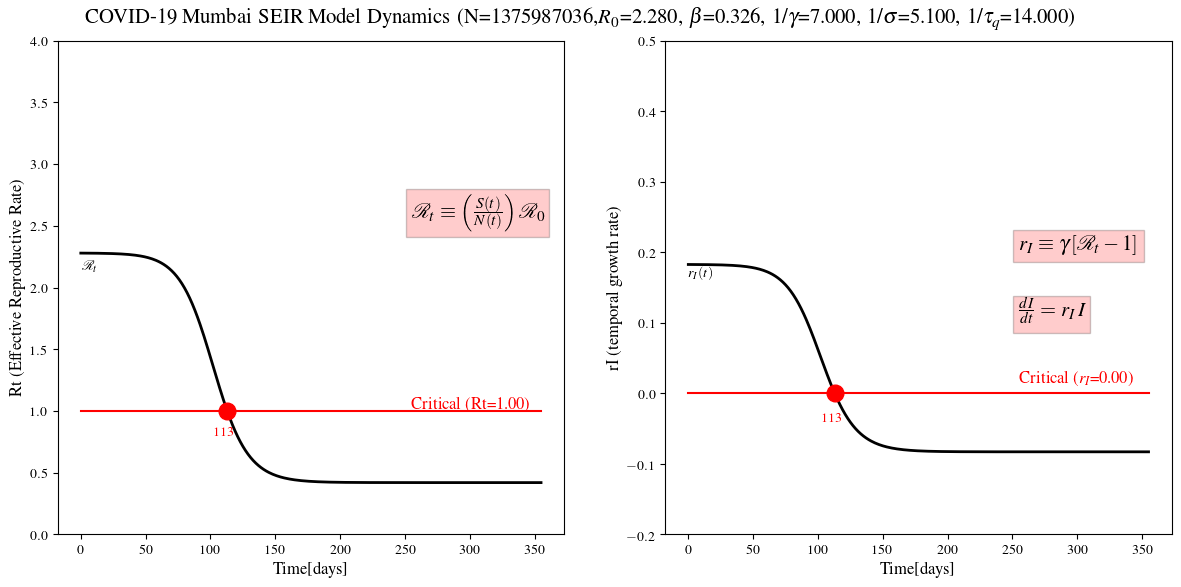
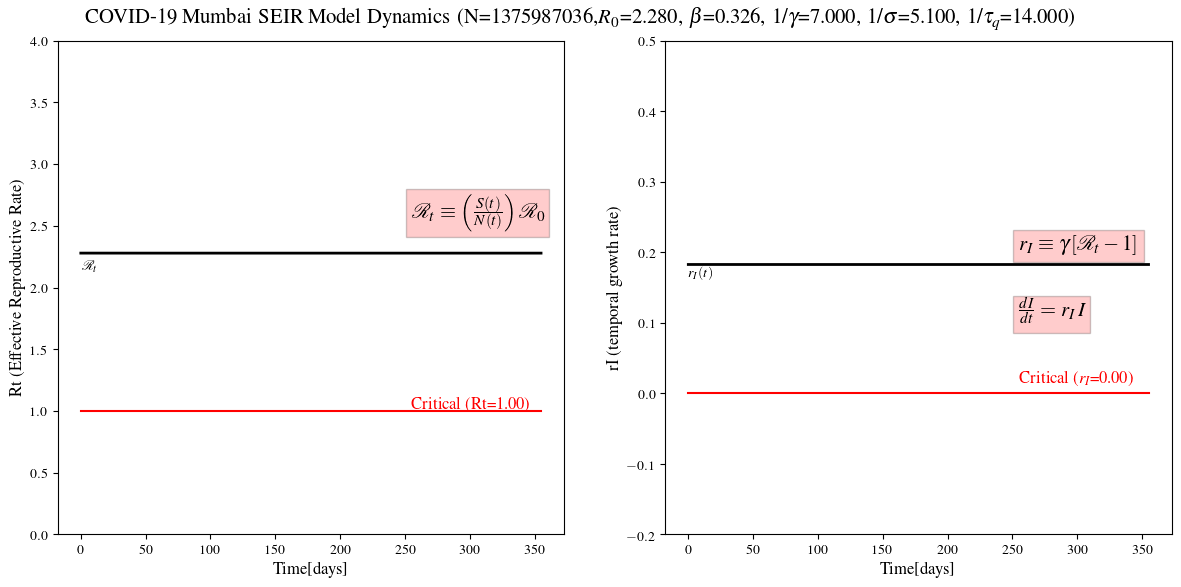
Monte carlo sampling working for mumbai model

diff --git a/sim_mumbaiPuneSEIR_model_MC.py b/sim_mumbaiPuneSEIR_model_MC.py
@@ -36,7 +36,7 @@ D0           = 5
 T0           = 334  # 249  
 Q0           = 249           #Q0 is 1% of infectious I0
 I0           = (1.01/0.01) * Q0
-contact_rate = 10            # number of contacts per day
+contact_rate = 1           # number of contacts per day
 E0           = (contact_rate - 1)*I0
 
 
@@ -70,7 +70,7 @@ def seir_mumbai(t, X, N, beta, gamma, sigma, m, q, tau_q):
 ###################################################
 
 # Control variable:  percentage quarantined
-q           = 0.01
+q           = 0.90
 
 # Model Parameters to sample from Gamma Distributions
 gamma_inv, gamma_inv_shape = 7 , 0.1 
@@ -78,19 +78,58 @@ sigma_inv, sigma_inv_shape = 5.1, 0.1
 r0, r0_shape               = 2.28 , 0.1     
 
 # Sample 1000 points from gamma distribution of gamma_inv
-gamma_inv_samples = 10*np.random.gamma(gamma_inv, gamma_inv_shape, 1000)
-sigma_inv_samples = 10*np.random.gamma(sigma_inv, sigma_inv_shape, 1000)
-r0_samples = 10*np.random.gamma(r0, r0_shape, 1000)
-# gamma_inv_samples = np.random.normal(gamma_inv, gamma_inv_shape, 1000)
-# sigma_inv_samples = np.random.normal(sigma_inv, sigma_inv_shape, 1000)
-# r0_samples = np.random.normal(r0, r0_shape, 1000)
 
-count, bins, ignored = plt.hist(r0_samples, 50, density=True)
-plt.show()
-count, bins, ignored = plt.hist(sigma_inv_samples, 50, density=True)
-plt.show()
+gamma_inv_samples = gamma_inv*np.random.gamma(gamma_inv, gamma_inv_shape, 1000)
+sigma_inv_samples = sigma_inv*np.random.gamma(sigma_inv, sigma_inv_shape, 1000)
+r0_samples = r0*np.random.gamma(r0, r0_shape, 1000)
+
+
+
+# For gamma pdf plots
+x           = np.linspace(1E-6, 10, 1000)
+num_samples = 1000
+
+#### Gamma distributed samples for gamma_inv ####
+k = 1
+loc = gamma_inv
+theta = gamma_inv_shape
+gamma_inv_dist    = gamma(k, loc, theta)
+gamma_inv_samples = gamma_inv_dist.rvs(num_samples)
+
+# Plot gamma samples and pdf
 count, bins, ignored = plt.hist(gamma_inv_samples, 50, density=True)
+plt.plot(x, gamma_inv_dist.pdf(x), 'r',
+         label=r'$k=%.1f,\ \theta=%.1f$' % (k, theta))
+
+#### Gamma distributed samples for sigma_inv ####
+k = 1
+loc = sigma_inv
+theta = sigma_inv_shape
+sigma_inv_dist = gamma(k, loc, theta)
+sigma_inv_samples = sigma_inv_dist.rvs(num_samples)
+
+# Plot sigma samples and pdf
+plt.plot(x, sigma_inv_dist.pdf(x), 'g',
+         label=r'$k=%.1f,\ \theta=%.1f$' % (k, theta))
+
+count, bins, ignored = plt.hist(sigma_inv_samples, 50, density=True)
+
+
+#### Gamma distributed samples for r0 ####
+k = 1
+loc = r0
+theta = r0_shape
+r0_dist = gamma(k, loc, theta)
+r0_samples = r0_dist.rvs(num_samples)
+
+# Plot r0 samples and pdf
+plt.plot(x, r0_dist.pdf(x), 'b',
+         label=r'$k=%.1f,\ \theta=%.1f$' % (k, theta))
+count, bins, ignored = plt.hist(r0_samples, 50, density=True)
+
 plt.show()
+
+
 
 # A grid of time points (in days) for each simulation
 t_eval = np.arange(0, days, 1)
@@ -195,10 +234,10 @@ max_inf     = I[max_inf_idx]
 print('Peak Infected = ', max_inf,'by day=',max_inf_idx)
 
 max_act_idx = np.argmax(Inf)
-max_act     = TA[max_act_idx]
-print('Peak Exp+Inf = ', max_inf,'by day=',max_act_idx)
+max_act     = Inf[max_act_idx]
+print('Peak Infected+Quarantined = ', max_act, 'by day=',max_act_idx)
 
-est_act     = I[65]
+est_act     = Inf[65]
 print('3Million Estimate Exp+Inf = ', est_act,'by day 65')
 
 # Final epidemic size (analytic)
@@ -234,9 +273,10 @@ if plot_inf:
     ax1.plot(t, Q/N, 'm',   lw=2,       label='Quarantined')
     ax1.plot(t, Q_up/N, 'm--',   lw=2,   label='95 CI')
     ax1.plot(t, Q_low/N, 'm--',   lw=2,   label='95 CI')
-    ax1.plot(t, (Q+I)/N, 'k',   lw=2,       label='Active')
+    ax1.plot(t, (Q+I)/N, 'k',   lw=2,       label='Infectuos (I+Q)')
     ax1.plot(t, (Q_up+I_up)/N, 'k--',   lw=2,   label='95 CI')
     ax1.plot(t, (Q_low+I_low)/N, 'k--',   lw=2,   label='95 CI')
+    ax1.plot(t, D/N, 'b--',  lw=1,  label='Dead')
 
 
 # Variable evolution
@@ -256,16 +296,16 @@ if plot_all:
     ax1.plot(t, D/N, 'b--',  lw=1,  label='Dead')
     ax1.plot(t, Q/N, 'm--',  lw=1,  label='Quarantined')
 
-    # Plot peak points
-    ax1.plot(max_inf_idx, max_inf/N,'ro', markersize=8)
-    ax1.plot(max_act_idx, max_act/N,'ro', markersize=8)
-    ax1.plot(65, est_act/N,'ro', markersize=8)
-    txt_title = r"Peak infectious: {peak_inf:5.0f} by day {peak_days:2.0f} from March 21" 
-    txt_title2 = r"Peak exp+inf: {peak_act:5.0f} by day {peak_days:2.0f} from March 21" 
-    txt_title3 = r"Est. inf: {est_act:5.0f} by day May 25" 
-    ax1.text(max_inf_idx+10, max_inf/N, txt_title.format(peak_inf=max_inf, peak_days= max_inf_idx), fontsize=10, color="r")
-    ax1.text(max_act_idx+10, max_act/N, txt_title2.format(peak_act=max_act, peak_days= max_act_idx), fontsize=10, color="r")
-    ax1.text(0, est_act/N, txt_title3.format(est_act=est_act), fontsize=10, color="r")
+# Plot peak points
+ax1.plot(max_inf_idx, max_inf/N,'ro', markersize=8)
+ax1.plot(max_act_idx, max_act/N,'ro', markersize=8)
+ax1.plot(65, est_act/N,'ro', markersize=8)
+txt_title = r"Peak infected: {peak_inf:5.0f} by day {peak_days:2.0f} from March 21" 
+txt_title2 = r"Peak infected+quarantined: {peak_act:5.0f} by day {peak_days:2.0f} from March 21" 
+txt_title3 = r"Est. inf: {est_act:5.0f} by day May 25" 
+ax1.text(max_inf_idx+10, max_inf/N, txt_title.format(peak_inf=max_inf, peak_days= max_inf_idx), fontsize=10, color="r")
+ax1.text(max_act_idx+10, max_act/N, txt_title2.format(peak_act=max_act, peak_days= max_act_idx), fontsize=10, color="r")
+ax1.text(0, est_act/N, txt_title3.format(est_act=est_act), fontsize=10, color="r")
 
 # Making things beautiful
 ax1.set_xlabel('Time /days', fontsize=12)

diff --git a/sim_mumbaiPuneSEIR_model.py b/sim_mumbaiPuneSEIR_model.py
@@ -40,7 +40,7 @@ gamma      = 1.0 / gamma_inv
 tau_q      = 1.0 /tau_q_inv
 
 # Control variable:  percentage quarantined
-q           = 0.01
+q           = 0.90
 
 print('*****   Hyper-parameters    *****')
 print('N=',N,'days=',days, 'r0=',r0, 'gamma_inv (days) = ',gamma_inv, 'tauq_inv (days) = ',tau_q_inv)
@@ -127,9 +127,9 @@ max_inf_idx = np.argmax(I)
 max_inf     = I[max_inf_idx]
 print('Peak Infected = ', max_inf,'by day=',max_inf_idx)
 
-max_act_idx = np.argmax(TA)
-max_act     = TA[max_act_idx]
-print('Peak Exp+Inf = ', max_inf,'by day=',max_act_idx)
+max_act_idx = np.argmax(Inf)
+max_act     = Inf[max_act_idx]
+print('Peak Infected+Quarantined = ', max_act, 'by day=',max_act_idx)
 
 est_act     = Inf[65]
 print('3Million Estimate Exp+Inf = ', est_act,'by day 65')
@@ -164,20 +164,24 @@ if plot_all:
     txt1 = "{per:2.2f} infected"
     ax1.text(t[0], covid_1SinfN - 0.05, txt1.format(per=covid_1SinfN[0]), fontsize=12, color='m')
 
-ax1.plot(t, E/N, 'm',   lw=2, label='Exposed')
-ax1.plot(t, I/N, 'r',   lw=2,   label='Infected')
-ax1.plot(t, Inf/N, 'r--',   lw=2,   label='Infectious (I+Q)')
-ax1.plot(t, TA/N, 'c--', lw=1.5,   label='Exposed+Infected')
+# ax1.plot(t, E/N, 'm',   lw=2, label='Exposed')
+# ax1.plot(t, I/N, 'r',   lw=2,   label='Infected')
+# ax1.plot(t, Inf/N, 'r--',   lw=2,   label='Infectious (I+Q)')
+# ax1.plot(t, TA/N, 'c--', lw=1.5,   label='Exposed+Infected')
 ax1.plot(t, D/N, 'b--',  lw=1,  label='Dead')
-ax1.plot(t, Q/N, 'm--',  lw=1,  label='Quarantined')
+# ax1.plot(t, Q/N, 'm--',  lw=1,  label='Quarantined')
+
+ax1.plot(t, I/N, 'r',   lw=2,       label='Infected')
+ax1.plot(t, Q/N, 'm',   lw=2,       label='Quarantined')
+ax1.plot(t, (Q+I)/N, 'k',   lw=2,   label='Infectuos (I+Q)')
 
 
 # Plot peak points
 ax1.plot(max_inf_idx, max_inf/N,'ro', markersize=8)
 ax1.plot(max_act_idx, max_act/N,'ro', markersize=8)
 ax1.plot(65, est_act/N,'ro', markersize=8)
-txt_title = r"Peak infectious: {peak_inf:5.0f} by day {peak_days:2.0f} from March 21" 
-txt_title2 = r"Peak exp+inf: {peak_act:5.0f} by day {peak_days:2.0f} from March 21" 
+txt_title = r"Peak infected: {peak_inf:5.0f} by day {peak_days:2.0f} from March 21" 
+txt_title2 = r"Peak infected+quarantined: {peak_act:5.0f} by day {peak_days:2.0f} from March 21" 
 txt_title3 = r"Est. inf: {est_act:5.0f} by day May 25" 
 ax1.text(max_inf_idx+10, max_inf/N, txt_title.format(peak_inf=max_inf, peak_days= max_inf_idx), fontsize=10, color="r")
 ax1.text(max_act_idx+10, max_act/N, txt_title2.format(peak_act=max_act, peak_days= max_act_idx), fontsize=10, color="r")
@@ -205,7 +209,7 @@ plt.savefig('./snaps/mumbaiSEIR_timeEvolution_%i.pdf'%sim_num, bbox_inches='tigh
 #################################################################
 ######## Plots Simulation with reproductive/growth rates ########
 #################################################################
-do_growth = 1
+do_growth = 0
 if do_growth:
     # Analytic growth rate
     effective_Rt = r0 * (S/N)
@@ -224,11 +228,13 @@ if do_growth:
 
 
     # Estimations of End of Epidemic
-    effRT_diff     = effective_Rt - 1
-    ids_less_1     = np.nonzero(effRT_diff < 0)
-    effRT_crossing = ids_less_1[0][0]
-    ax1.plot(effRT_crossing, 1,'ro', markersize=12)
-    ax1.text(effRT_crossing-10, 1-0.2,str(effRT_crossing), fontsize=10, color="r")
+    # effRT_diff     = effective_Rt - 1
+    # ids_less_1     = np.nonzero(effRT_diff < 0)
+    # effRT_crossing = ids_less_1[0][0]
+    # ax1.plot(effRT_crossing, 1,'ro', markersize=12)
+    # ax1.text(effRT_crossing-10, 1-0.2,str(effRT_crossing), fontsize=10, color="r")
+
+
     ax1.set_ylabel('Rt (Effective Reproductive Rate)', fontsize=12)
     ax1.set_xlabel('Time[days]', fontsize=12)
     ax1.set_ylim(0,4)
@@ -238,24 +244,26 @@ if do_growth:
 
     # Plot of temporal growth rate
     ax2.plot(t, growth_rates, 'k', lw=2, label='rI (temporal growth rate)')
-    ax2.text(t[0] + 0.02, growth_rates[0] - 0.02,r'${r}_I(t)$', fontsize=10)
-
+    ax2.text(t[0] + 0.02, growth_rates[0] - 0.02,r'${r}_I(t)$', fontsize=10)    
     ax2.plot(t, 0*np.ones(len(t)), 'r-')
     txt1 = r"Critical ($r_I$={per:2.2f})"
     ax2.text(t[-1]-100, 0 + 0.01, txt1.format(per=0), fontsize=12, color='r')
     ax2.text(t[-1]-100, 0.2, r"$r_I  \equiv \gamma \left[ {\cal R}_t - 1 \right]$", fontsize=15, bbox=dict(facecolor='red', alpha=0.2))
     ax2.text(t[-1]-100, 0.1, r"$\frac{ dI}{dt} = r_I \, I $", fontsize=15, bbox=dict(facecolor='red', alpha=0.2))
+    
     ax2.set_ylabel('rI (temporal growth rate)', fontsize=12)
     ax2.set_xlabel('Time[days]',fontsize=12)
     ax2.set_ylim(-0.2,0.5)
 
 
     # Estimations of End of Epidemic
-    rI_diff     = growth_rates 
-    ids_less_0  = np.nonzero(rI_diff < 0)
-    rI_crossing = ids_less_1[0][0]
-    ax2.plot(rI_crossing, 0,'ro', markersize=12)
-    ax2.text(rI_crossing-10, 0-0.04,str(rI_crossing), fontsize=10, color="r")
+    # rI_diff     = growth_rates 
+    # ids_less_0  = np.nonzero(rI_diff < 0)
+    # rI_crossing = ids_less_1[0][0]
+    # ax2.plot(rI_crossing, 0,'ro', markersize=12)
+    # ax2.text(rI_crossing-10, 0-0.04,str(rI_crossing), fontsize=10, color="r")
+
+
     fig.set_size_inches(27.5/2, 12.5/2, forward=True)
 
     plt.savefig('./snaps/mumbaiSIR_growthRates_%i.png'%sim_num, bbox_inches='tight')
